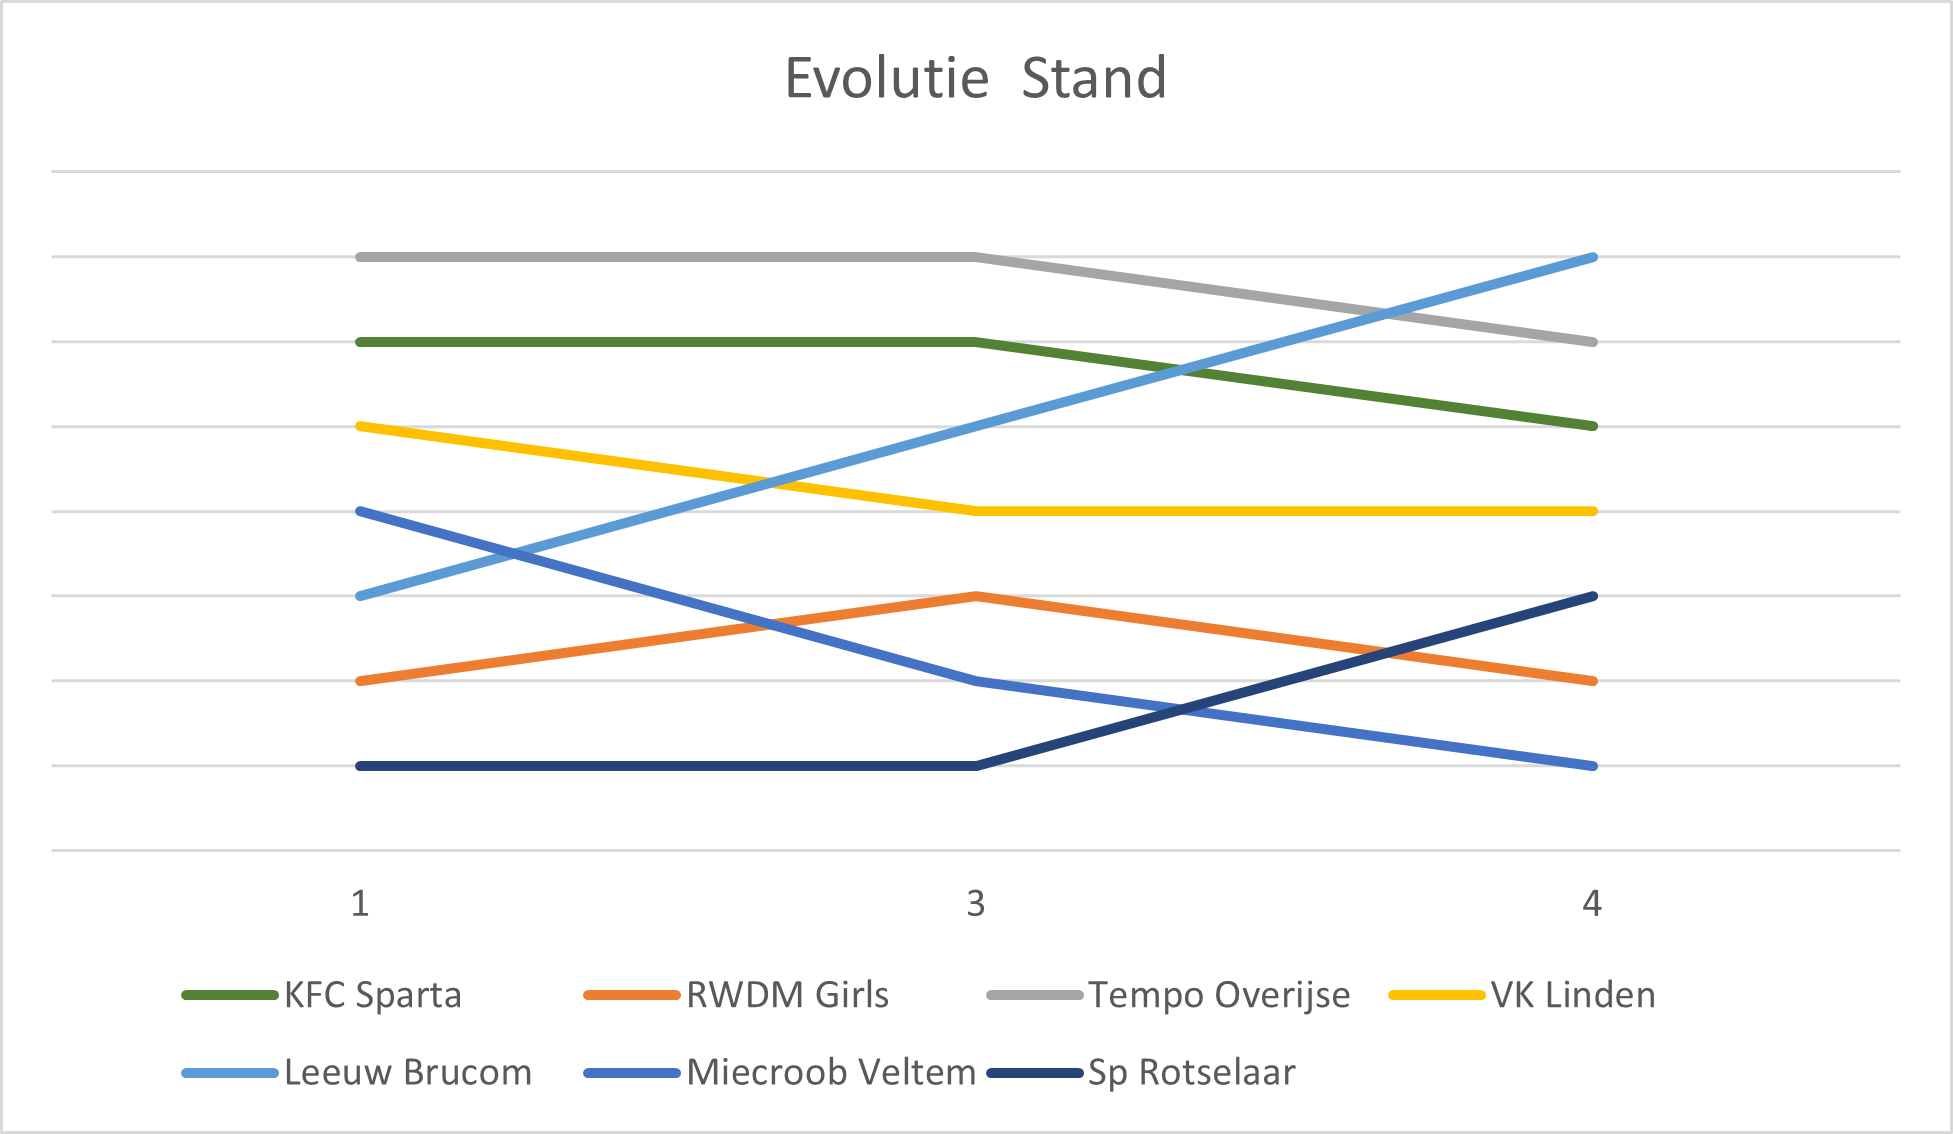
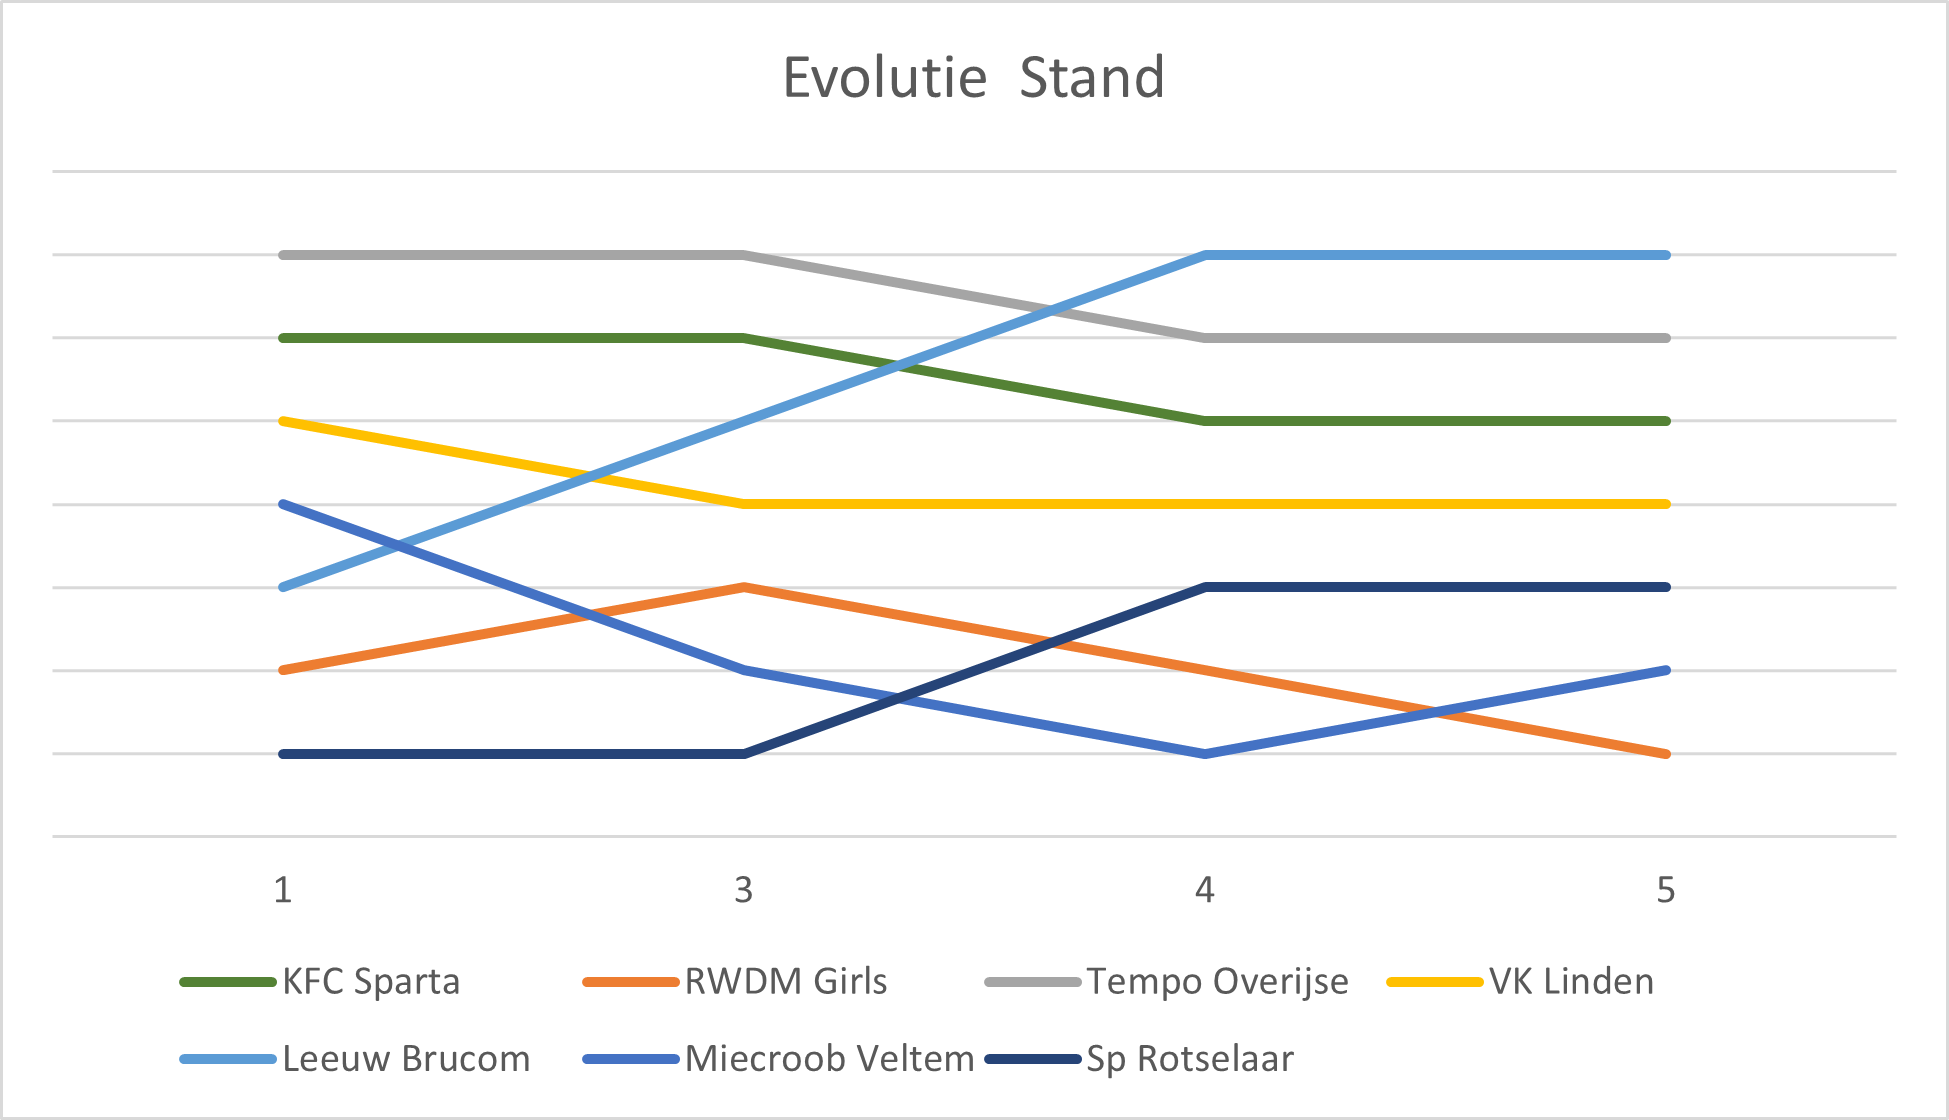
Update

diff --git a/README.md b/README.md
@@ -15,23 +15,26 @@ Op deze pagina vind je allerlei nuttige informatie & afspraken voor de MU 16 sei
 > Geen wedstrijd dit weekend! 
 -->
 
-> Volgende **thuis** wedstrijd is op zondag **18 februari** tegen **Miecroob Veltem** om **10.30** (09.30 ter plaatse)
+<!-- > Volgende **thuis** wedstrijd is op zondag **18 februari** tegen **Miecroob Veltem** om **10.30** (09.30 ter plaatse)
 
 > Kleedkamer: **Tille & Lize**
 
-> Fruit & was: **Tille** 
+> Fruit & was: **Tille**  
+-->
 
-<!-- > Volgende **uit** wedstrijd is op zaterdag **3 februari** tegen **Leeuw Brucom** om **10.00** (09.00 ter plaatse of 08.00 vertrekken op Sparta) 
 
-> fruit & was: Imke
+> Volgende **uit** wedstrijd is op zaterdag **24 februari** tegen **Sp Rotselaar** om **15.30** (14.30 ter plaatse of 14.00 vertrekken op Sparta) 
 
-> adres leeuw brucom:
-Lotstraat - terrein 3 <br>
-Lotstraat 10<br>
-1600 St-Pieters-Leeuw <br>
-[map](https://www.google.com/maps/place/lotstraat+10,+1600+sint-pieters-leeuw/@50.7752662,4.2599678,17z/data=!3m1!4b1!4m6!3m5!1s0x47c3c625aedd01e9:0xbb381381b63e5bee!8m2!3d50.7752662!4d4.2625427!16s%2fg%2f11g0tg893f?entry=ttu)  -->
+> fruit & was: Lize
+
+> Adres Sp Rotselaar:
+Ter Heide - Terrein 1 <br>
+Torenstraat 115 <br>
+3110 Rotselaar <br>
+[map](https://www.google.com/maps/dir/50.9634811,4.6068242/Torenstraat+115,+3110+Rotselaar/@50.9603615,4.6441266,14z/data=!3m1!4b1!4m10!4m9!1m1!4e1!1m5!1m1!1s0x47c15e7e3f89dd13:0x7e530a7ae390eaf8!2m2!1d4.7238493!2d50.9575009!3e0?entry=ttu) 
 
 <!--
+
 > Adres Leeuw Brucom:
 Lotstraat - Terrein 3 <br>
 Lotstraat 10 <br>
@@ -67,7 +70,6 @@ Eikestraat <br>
 
 Datum   | Thuis | Uit   | Tegenstander          | Uur
 ---     |:---:  |:---:  |---                    | ---
-zo 18-Feb|☑||Miecroob Veltem|10.30
 za 24-Feb||☑|[Sp Rotselaar](https://www.google.com/maps/dir/50.9634811,4.6068242/Torenstraat+115,+3110+Rotselaar/@50.9603615,4.6441266,14z/data=!3m1!4b1!4m10!4m9!1m1!4e1!1m5!1m1!1s0x47c15e7e3f89dd13:0x7e530a7ae390eaf8!2m2!1d4.7238493!2d50.9575009!3e0?entry=ttu)| 15.30
 za 9-Maa||☑|[RWDM Girls](https://www.google.com/maps/dir/50.9634811,4.6068242/Mahatma+Gandhilaan,+1080+Sint-Jans-Molenbeek/@50.8591083,4.3260723,209m/data=!3m1!1e3!4m10!4m9!1m1!4e1!1m5!1m1!1s0x47c3c3f02cd025f3:0x7af10a544961ee00!2m2!1d4.3256741!2d50.8588073!3e0?entry=ttu)|14.00
 zo 17-Maa|☑||Tempo Overijse|10.30
@@ -91,6 +93,7 @@ Symbool   | Status
 
 Datum   | Thuis | Uit    | Tegenstander        | Uitslag
 ---     |:---:  |:---:   |---                  |---
+18-Feb  |✅     |       |Miecroob Veltem        |1-1
 3-Feb   |       |✅     |Leeuw Brucom           |4-3
 28-Jan  |✅     |       |VK Linden              |**2-2**
 14-Jan  |✅     |       | RWDM Girls            |**6-0**
@@ -116,14 +119,13 @@ Datum   | Thuis | Uit    | Tegenstander        | Uitslag
 
 Team	|	PTS	|	M	|	W	|	V	|	G	|	+	|	-	|	+/-
 ---	|	---	|	---	|	---	|	---	|	---	|	---	|	---	|	---
-Tempo Overijse	|	4	|	2	|	1	|	0	|	1	|	19	|	7	|	12
-KFC Sparta	|	4	|	3	|	1	|	1	|	1	|	11	|	6	|	5
-Leeuw Brucom	|	3	|	1	|	1	|	0	|	0	|	4	|	3	|	1
-Sp Rotselaar	|	3	|	2	|	1	|	1	|	0	|	6	|	17	|	-11
-VK Linden	|	1	|	1	|	0	|	0	|	1	|	2	|	2	|	0
-RWDM Girls	|	1	|	2	|	0	|	1	|	1	|	6	|	12	|	-6
-Miecroob Veltem	|	0	|	1	|	0	|	1	|	0	|	4	|	5	|	-1
-
+Leeuw Brucom	|	9	|	3	|	3	|	0	|	0	|	32	|	6	|	26
+Tempo Overijse	|	7	|	3	|	2	|	0	|	1	|	23	|	8	|	15
+KFC Sparta	|	5	|	4	|	1	|	1	|	2	|	12	|	7	|	5
+VK Linden	|	4	|	3	|	1	|	1	|	1	|	5	|	7	|	-2
+Sp Rotselaar	|	3	|	3	|	1	|	2	|	0	|	8	|	37	|	-29
+Miecroob Veltem	|	1	|	2	|	0	|	1	|	1	|	5	|	6	|	-1
+RWDM Girls	|	1	|	4	|	0	|	3	|	1	|	8	|	22	|	-14
 
 ![Sparta](/assets/ranking2.png)
 
@@ -195,7 +197,7 @@ Gitte	    |✅         |           |           |           |           |        
 Dee Dee	    |           |☑         |           |           |           |           |           |           |           |           |           |
 Margue	    |           |           |✅           |         |           |           |           |           |           |           |           |
 Imke	    |           |           |           |✅           |         |           |           |           |           |           |           |
-Tille	    |           |           |           |           |☑           |         |           |           |           |           |           |
+Tille	    |           |           |           |           |✅           |         |           |           |           |           |           |
 Lize        |           |           |           |           |           |☑           |         |           |           |           |           |
 Morane		|           |           |           |           |           |           |☑           |           |         |           |           |
 Auke        |           |           |           |           |           |           |           |☑         |           |           |           |
@@ -239,8 +241,8 @@ Gitte	    |✅      |          |           |           |           |
 Dee Dee	    |✅      |          |           |           |           |           
 Margue	    |       |✅          |           |           |           |          
 Imke	    |       |✅          |           |           |           |          
-Tille	    |       |           |☑         |           |           |           
-Lize        |       |           |☑           |         |           |           
+Tille	    |       |           |✅         |           |           |           
+Lize        |       |           |✅           |         |           |           
 Auke        |       |           |           |☑         |           |           
 Morane      |       |           |           |☑         |            |          
 Féliz	    |       |           |           |           |☑          |          
@@ -338,7 +340,6 @@ Datum   | Tijdstip  | Wie (Ouder(s) van)
 28 Jan  |09.30-12.30| ✅ Tille     
 
 <!--
-Lize        |✅|✅           
 Auke        |✅|           
 Morane      |✅|             
 
@@ -357,6 +358,8 @@ Esmee	    |✅|
 Margue	    | |           
 Lore        | |             
 Tessa       | |             
+
+Lize        |✅|✅           
 -->
 
 
@@ -449,7 +452,7 @@ Het is weer zover 😊
 
 Maandag=Twizzitdag
 
-Gelieve de aanwezigheden aan te duiden voor de 2 trainingen deze week en de wedstrijd op zaterdag 3 februari tegen Leeuw Brucom om 10.00
+Gelieve de aanwezigheden aan te duiden voor de 2 trainingen deze week en de wedstrijd op zaterdag 24 februari tegen Sp Rotselaar om 15.30
 
 Info is zoals steeds terug te vinden op https://mu16-23-24.github.io  
 -->
